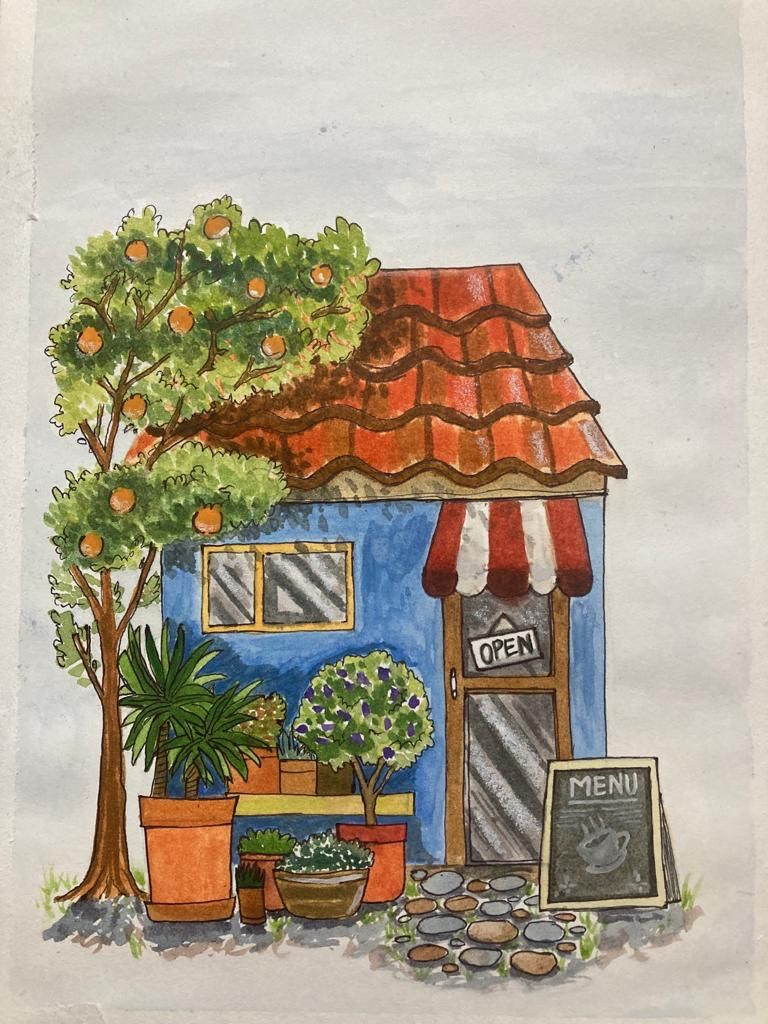
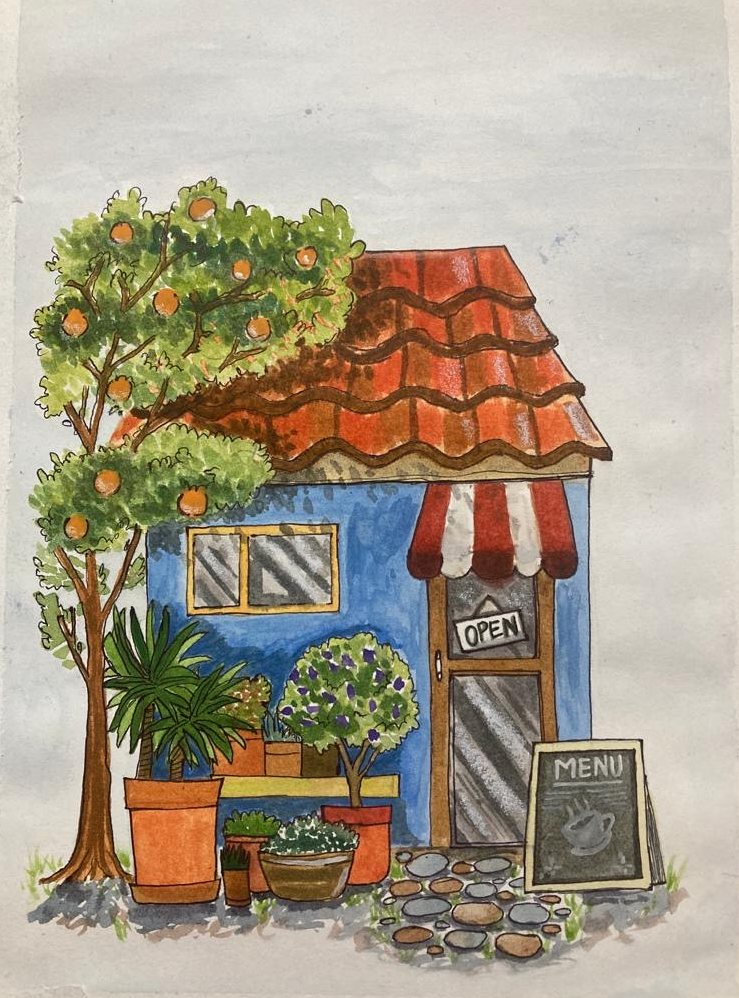
Clean up all 12 paintings: tight crops to the artwork
- Re-crop every piece from originals to remove notebook spirals, tabletops,
  art-academy stamps, glare, and black mounts; gentle post-crop sharpen
- Corrected timepiece source (clock-eye fafa49c3, not the parrots file)
- Update all img width/height to new cropped dimensions (hero + 12 gallery)
- Regenerate thumbnails and the OG share card from the cleaned fireflies
- Art payload ~2.3 MB total, unchanged

diff --git a/art.html b/art.html
@@ -67,7 +67,7 @@
 
   <figure class="wall pos-c size-l" id="w-fireflies">
     <button class="frame" data-title="Fireflies" data-medium="Watercolor" aria-label="View Fireflies larger">
-      <img src="images/art/fireflies.jpg" width="885" height="1280" loading="eager"
+      <img src="images/art/fireflies.jpg" width="742" height="988" loading="eager"
            alt="A lantern hangs from a flowering branch, glowing warm orange over a field of lavender scattered with fireflies, beneath an amber dusk sky.">
     </button>
     <figcaption><span class="wnum mono">I</span><span class="wtitle">Fireflies</span><span class="wmedium mono">watercolor</span></figcaption>
@@ -75,7 +75,7 @@
 
   <figure class="wall pos-l size-m" id="w-bride">
     <button class="frame" data-title="Bride" data-medium="Chalk & pencil on toned paper" aria-label="View Bride larger">
-      <img src="images/art/bride.jpg" width="714" height="1035" loading="lazy"
+      <img src="images/art/bride.jpg" width="702" height="1019" loading="lazy"
            alt="Profile portrait of a bride on warm toned paper — dark hair dressed with white flowers, jewelry at the ear and neck, drawn in chalk and pencil.">
     </button>
     <figcaption><span class="wnum mono">II</span><span class="wtitle">Bride</span><span class="wmedium mono">chalk &amp; pencil on toned paper</span></figcaption>
@@ -83,7 +83,7 @@
 
   <figure class="wall pos-r size-m" id="w-timepiece">
     <button class="frame" data-title="Timepiece" data-medium="Graphite" aria-label="View Timepiece larger">
-      <img src="images/art/timepiece.jpg" width="815" height="1024" loading="lazy"
+      <img src="images/art/timepiece.jpg" width="713" height="975" loading="lazy"
            alt="Graphite drawing of a human eye set inside a Roman-numeral clock face, its edge dissolving into a flock of birds and ink splatter.">
     </button>
     <figcaption><span class="wnum mono">III</span><span class="wtitle">Timepiece</span><span class="wmedium mono">graphite</span></figcaption>
@@ -91,7 +91,7 @@
 
   <figure class="wall pos-c size-l" id="w-ganesha">
     <button class="frame" data-title="Ganesha" data-medium="Acrylic on canvas" aria-label="View Ganesha larger">
-      <img src="images/art/ganesha.jpg" width="960" height="1280" loading="lazy"
+      <img src="images/art/ganesha.jpg" width="794" height="1195" loading="lazy"
            alt="Ganesha in white and gold playing the flute against a deep blue field, framed by copper mandala patterns in each corner.">
     </button>
     <figcaption><span class="wnum mono">IV</span><span class="wtitle">Ganesha</span><span class="wmedium mono">acrylic on canvas</span></figcaption>
@@ -99,7 +99,7 @@
 
   <figure class="wall pos-l size-m" id="w-walking">
     <button class="frame" data-title="Walking" data-medium="Acrylic" aria-label="View Walking larger">
-      <img src="images/art/walking.jpg" width="720" height="960" loading="lazy"
+      <img src="images/art/walking.jpg" width="595" height="895" loading="lazy"
            alt="A small girl in a red dress and red sneakers walks away across a soft green ground, trailing a single rose from one hand.">
     </button>
     <figcaption><span class="wnum mono">V</span><span class="wtitle">Walking</span><span class="wmedium mono">acrylic</span></figcaption>
@@ -107,7 +107,7 @@
 
   <figure class="wall pos-r size-m" id="w-last-light">
     <button class="frame" data-title="Last Light" data-medium="Acrylic on canvas" aria-label="View Last Light larger">
-      <img src="images/art/last-light.jpg" width="1002" height="1024" loading="lazy"
+      <img src="images/art/last-light.jpg" width="858" height="916" loading="lazy"
            alt="A thatched tiki umbrella in silhouette against a blazing orange sunset over water, the sun breaking through violet clouds.">
     </button>
     <figcaption><span class="wnum mono">VI</span><span class="wtitle">Last Light</span><span class="wmedium mono">acrylic on canvas</span></figcaption>
@@ -115,7 +115,7 @@
 
   <figure class="wall pos-c size-m" id="w-moonrise">
     <button class="frame" data-title="Moonrise" data-medium="Graphite" aria-label="View Moonrise larger">
-      <img src="images/art/moonrise.jpg" width="1024" height="819" loading="lazy"
+      <img src="images/art/moonrise.jpg" width="1013" height="788" loading="lazy"
            alt="Graphite drawing of two figures in a small boat under a full moon — one rowing, one standing with arms spread wide — framed by hanging leaves.">
     </button>
     <figcaption><span class="wnum mono">VII</span><span class="wtitle">Moonrise</span><span class="wmedium mono">graphite</span></figcaption>
@@ -123,7 +123,7 @@
 
   <figure class="wall pos-l size-l" id="w-somewhere-quieter">
     <button class="frame" data-title="Somewhere Quieter" data-medium="Acrylic" aria-label="View Somewhere Quieter larger">
-      <img src="images/art/somewhere-quieter.jpg" width="1024" height="625" loading="lazy"
+      <img src="images/art/somewhere-quieter.jpg" width="1004" height="607" loading="lazy"
            alt="A dirt road winds past a small white farmhouse toward a lake and blue mountains under a yellow sky, between hills of wildflowers.">
     </button>
     <figcaption><span class="wnum mono">VIII</span><span class="wtitle">Somewhere Quieter</span><span class="wmedium mono">acrylic</span></figcaption>
@@ -131,7 +131,7 @@
 
   <figure class="wall pos-r size-m" id="w-open-water">
     <button class="frame" data-title="Open Water" data-medium="Watercolor" aria-label="View Open Water larger">
-      <img src="images/art/open-water.jpg" width="885" height="1280" loading="lazy"
+      <img src="images/art/open-water.jpg" width="799" height="1065" loading="lazy"
            alt="Watercolor of a lone sailboat resting on layered blue waves at sunset, gulls overhead, painted in a spiral-bound sketchbook.">
     </button>
     <figcaption><span class="wnum mono">IX</span><span class="wtitle">Open Water</span><span class="wmedium mono">watercolor</span></figcaption>
@@ -139,7 +139,7 @@
 
   <figure class="wall pos-l size-m" id="w-clearing">
     <button class="frame" data-title="Clearing" data-medium="Acrylic on canvas" aria-label="View Clearing larger">
-      <img src="images/art/clearing.jpg" width="1342" height="1600" loading="lazy"
+      <img src="images/art/clearing.jpg" width="1160" height="1400" loading="lazy"
            alt="Sunbeams cut through tall forest pines onto a white waterfall spilling into a bright turquoise pool.">
     </button>
     <figcaption><span class="wnum mono">X</span><span class="wtitle">Clearing</span><span class="wmedium mono">acrylic on canvas</span></figcaption>
@@ -147,7 +147,7 @@
 
   <figure class="wall pos-r size-m" id="w-nataraja">
     <button class="frame" data-title="Nataraja" data-medium="Graphite" aria-label="View Nataraja larger">
-      <img src="images/art/nataraja.jpg" width="868" height="1234" loading="lazy"
+      <img src="images/art/nataraja.jpg" width="848" height="1210" loading="lazy"
            alt="Graphite study of Shiva as Nataraja, lord of the dance — one leg raised, four arms in motion, tall crown of flame.">
     </button>
     <figcaption><span class="wnum mono">XI</span><span class="wtitle">Nataraja</span><span class="wmedium mono">graphite</span></figcaption>
@@ -155,7 +155,7 @@
 
   <figure class="wall pos-c size-m" id="w-open">
     <button class="frame" data-title="Open" data-medium="Watercolor & ink" aria-label="View Open larger">
-      <img src="images/art/open.jpg" width="768" height="1024" loading="lazy"
+      <img src="images/art/open.jpg" width="739" height="998" loading="lazy"
            alt="A little blue café with a red tiled roof and striped awning, an OPEN sign on the door, potted plants and an orange tree out front.">
     </button>
     <figcaption><span class="wnum mono">XII</span><span class="wtitle">Open</span><span class="wmedium mono">watercolor &amp; ink</span></figcaption>

diff --git a/index.html b/index.html
@@ -63,7 +63,7 @@
   <!-- Standout moment: her own painting, seen through her own kind of model -->
   <figure class="hero-vision" aria-label="One of Sakhi's watercolor paintings, overlaid with playful computer-vision detection boxes">
     <div class="vision-frame">
-      <img src="images/art/fireflies.jpg" width="885" height="1280"
+      <img src="images/art/fireflies.jpg" width="742" height="988"
            alt="Watercolor painting of a glowing lantern hanging from a branch over a lavender field scattered with fireflies, against an orange dusk sky."
            fetchpriority="high">
       <div class="vision-overlay" aria-hidden="true">
